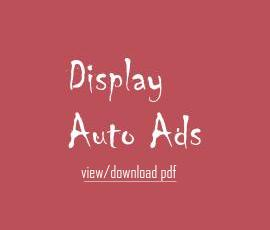
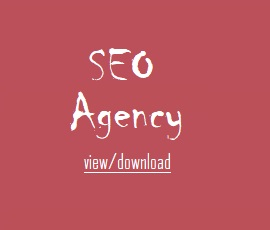
Case Studies update

Changed region(s): [[0.237, 0.1826, 0.7704, 0.7913]]

diff --git a/website/docs/cleaning-company.html b/website/docs/cleaning-company.html
@@ -1,0 +1,63 @@
+<!DOCTYPE html>
+<html>
+
+<head>
+  <meta charset="utf-8">
+  <meta name="viewport" content="width=device-width, initial-scale=1.0">
+  <title>Lead Generation Case Study: Cleaning Company</title>
+  <link rel="stylesheet" href="https://stackedit.io/style.css" />
+</head>
+
+<body class="stackedit">
+  <div class="stackedit__html"><h2 id="how-we-helped-a-commercial-cleaning-company-generate-up-to-30-leads-per-month-through-targeted-cold-email-campaigns"><strong>How We Helped a Commercial Cleaning Company Generate Up to 30 Leads Per Month Through Targeted Cold Email Campaigns</strong>**</h2>
+<p><img src="https://images.pexels.com/photos/7641008/pexels-photo-7641008.jpeg?auto=compress&amp;cs=tinysrgb&amp;w=1260&amp;h=750&amp;dpr=1" alt="Free Man in White Crew Neck T-shirt Standing Beside Window Stock Photo"></p>
+<h3 id="how-getfitech-media-helped-a-commercial-cleaning-company-in-south-africa-generate-30-leads-monthly">How GetFiTech Media Helped a Commercial Cleaning Company in South Africa Generate 30 Leads Monthly</h3>
+<p>Explore how GetFiTech Media’s specialized cold email campaigns empowered a commercial cleaning company in South Africa to secure up to 30 qualified leads each month, driving growth and bolstering their market presence in a competitive environment.</p>
+<p><strong>Client:</strong> Commercial Cleaning Company<br>
+<strong>Industry:</strong> Commercial Cleaning Services, B2B</p>
+<p><strong>Challenge:</strong> This burgeoning commercial cleaning firm in South Africa faced difficulties in a saturated market, struggling to maintain a consistent influx of qualified leads to sustain growth and profitability.</p>
+<p><strong>Solution:</strong> Developing a precision-targeted cold email strategy to foster lead generation and cultivate relationships with prospective clients in various commercial sectors.</p>
+<p><strong>Results:</strong> Achieved up to 30 qualified leads monthly, facilitating continuous growth and market penetration.</p>
+<hr>
+<h3 id="background">Background</h3>
+<p>Our client, an innovative commercial cleaning company, operates in multiple cities across South Africa, delivering comprehensive cleaning solutions to commercial establishments such as office complexes, retail stores, and educational facilities. Despite their high standards of service, they encountered challenges in generating a steady stream of new business leads in a highly competitive market.</p>
+<hr>
+<h3 id="solution">Solution</h3>
+<p><strong>Cold Email Strategy:</strong><br>
+We designed a bespoke cold email campaign to address the specific requirements and challenges of businesses seeking dependable cleaning services. The strategy involved:</p>
+<ol>
+<li>
+<p><strong>Segmentation and Targeting:</strong> We meticulously identified and segmented potential clients based on industry, company size, and location, tailoring our messages to meet the unique needs of each segment.</p>
+</li>
+<li>
+<p><strong>Personalized Email Content:</strong> Crafted emails that addressed concerns about cleanliness, hygiene, and maintenance costs, showcasing our client’s expertise and unique value proposition.</p>
+</li>
+<li>
+<p><strong>Effective Subject Lines and CTAs:</strong> We experimented with various subject lines to maximize open rates and included compelling calls-to-action to encourage recipients to book consultations or service demonstrations.</p>
+</li>
+<li>
+<p><strong>Follow-Up Sequence:</strong> Implemented a structured follow-up sequence to engage leads who expressed interest but didn’t respond immediately, ensuring our client remained top-of-mind.</p>
+</li>
+</ol>
+<hr>
+<h3 id="results">Results</h3>
+<p>Our cold email strategy yielded significant improvements in the client’s lead-generation efforts:</p>
+<ol>
+<li>
+<p><strong>Reliable Lead Generation:</strong> The campaign consistently produced up to 30 qualified leads per month, driving predictable growth.</p>
+</li>
+<li>
+<p><strong>Enhanced Brand Awareness:</strong> The focused outreach increased brand visibility in the commercial sector, positioning our client as a preferred choice for commercial cleaning services.</p>
+</li>
+<li>
+<p><strong>Strengthened Client Relationships:</strong> Personalized follow-ups and targeted content fostered strong relationships with potential clients, often leading to referrals and repeat business.</p>
+</li>
+</ol>
+<hr>
+<h3 id="conclusion">Conclusion</h3>
+<p>Through targeted cold email campaigns, GetFiTech Media assisted the commercial cleaning company in establishing a solid foothold in the South African market, leading to consistent lead generation and improved brand recognition. Our ongoing efforts continue to support their expansion, ensuring they stay competitive and responsive to market dynamics.</p>
+<p>As the company broadens its service offerings and geographic reach, we are committed to refining our strategies to meet their evolving marketing needs and to ensure their sustained success.</p>
+</div>
+</body>
+
+</html>

diff --git a/website/index.html b/website/index.html
@@ -114,7 +114,7 @@ height="0" width="0" style="display:none;visibility:hidden"></iframe></noscript>
                           <div class="col-md-5">
                             <div class="right-about-text">
                               <h4>What we do?</h4>
-                              <p>We fuel business growth by delivering marketing qualified leads directly to your team. Let's help you identify, nurture, and convert potential customers throughout their buying journey.</p> <p>Our turnkey lead generation solutions leverage data-driven strategies to connect your business with decision-makers in your target market. We don't just fill your pipeline; we provide warm leads primed for conversion, boosting your sales efficiency and revenue growth.</p> 
+                              <p>We fuel business growth by delivering qualified leads directly to your sales team. Let's help you identify, nurture, and convert potential customers throughout their buying journey.</p> <p>Our turnkey lead generation solutions leverage data-driven strategies to connect your business with decision-makers in your target market. We don't just fill your pipeline; we provide warm leads primed for conversion, boosting your sales efficiency and revenue growth.</p> 
                               
                             </div>
                           </div>
@@ -192,28 +192,28 @@ height="0" width="0" style="display:none;visibility:hidden"></iframe></noscript>
                       <div class="content fourth-content">
                         <div class="row">
                           <div class="col-md-3 project-item">
-                            <a href="docs/gmb.pdf" target="_blank"><img src="img/project-item-01.jpg"></a>
+                            <a href="" target="_blank"><img src="img/project-item-01.jpg"></a>
                           </div>
                           <div class="col-md-3 project-item">
-                            <a href="docs/advertising-intelligence-brochure.pdf" target="_blank"><img src="img/project-item-02.jpg"></a>
+                            <a href="docs/cleaning-company.html" target="_blank"><img src="img/project-item-02.jpg"></a>
                           </div>
                           <div class="col-md-3 project-item">
-                            <a href="docs/auto-dealer.pdf" target="_blank"><img src="img/project-item-03.jpg"></a>
+                            <a href="docs/seo-agency.html" target="_blank"><img src="img/project-item-03.jpg"></a>
                           </div>
                           <div class="col-md-3 project-item">
-                            <a href="docs/pre-roll-case -studies.pdf" target="_blank"><img src="img/project-item-04.jpg"></a>
+                            <a href="" target="_blank"><img src="img/project-item-04.jpg"></a>
                           </div>
                           <div class="col-md-3 project-item">
-                            <a href="docs/retargeting-case-studies.pdf" target="_blank"><img src="img/project-item-05.jpg"></a>
+                            <a href="" target="_blank"><img src="img/project-item-05.jpg"></a>
                           </div>
                           <div class="col-md-3 project-item">
-                            <a href="docs/ad-extensions.pdf" target="_blank"><img src="img/project-item-06.jpg"></a>
+                            <a href="" target="_blank"><img src="img/project-item-06.jpg"></a>
                           </div>
                           <div class="col-md-3 project-item">
-                            <a href="docs/targeted-display-case-study.pdf" target="_blank"><img src="img/project-item-07.jpg"></a>
+                            <a href="" target="_blank"><img src="img/project-item-07.jpg"></a>
                           </div>
                           <div class="col-md-3 project-item">
-                            <a href="docs/case-study-attorney.pdf" target="_blank"><img src="img/project-item-08.jpg"></a>
+                            <a href="" target="_blank"><img src="img/project-item-08.jpg"></a>
                             
                             <!--images are chiller 36-->
                           </div>

diff --git a/website/docs/seo-agency.html b/website/docs/seo-agency.html
@@ -1,0 +1,49 @@
+<!DOCTYPE html>
+<html>
+
+<head>
+  <meta charset="utf-8">
+  <meta name="viewport" content="width=device-width, initial-scale=1.0">
+  <title>B2B Lead Generation Case Study: SEO Agency</title>
+  <link rel="stylesheet" href="https://stackedit.io/style.css" />
+</head>
+
+<body class="stackedit">
+  <div class="stackedit__html"><h2 id="how-getfitech-media-helped-a-client-secure-70-high-quality-leads-in-the-seo-sector-via-cold-email"><strong>How GetFiTech Media Helped a Client Secure 70 High-Quality Leads in the SEO Sector via Cold Email</strong></h2>
+<p><strong>Generating 70 high-quality leads for an SEO firm in 2 months, exceeding expectations. Achieved a 38% open rate and 21% response rate, outperforming industry standards.</strong></p>
+<p><img src="https://cdn.pixabay.com/photo/2022/09/14/03/35/social-media-7453328_1280.png" alt="Free social media social media lead generation tiktok illustration"></p>
+<h3 id="client-overview">Client Overview:</h3>
+<p>Our client, a budding SEO agency, sought to widen their client base and boost their visibility in the digital marketing arena. With a committed team and a history of outstanding results for their existing clients, they were eager to explore new opportunities to demonstrate their expertise and expand their business.</p>
+<h3 id="the-challenge">The Challenge:</h3>
+<p>Despite their proven success, the client faced two major obstacles:</p>
+<ol>
+<li>Differentiating themselves in a crowded market filled with established competitors.</li>
+<li>Identifying and engaging with potential clients interested in their services.</li>
+</ol>
+<p>To tackle these issues, the agency approached us with a clear objective: to generate a minimum of 50 new leads within a two-month timeframe.</p>
+<h3 id="our-approach">Our Approach:</h3>
+<p>After a thorough analysis of the client’s goals, industry, and target audience, we concluded that cold email campaigns would be the most effective strategy. Our three-step plan included:</p>
+<ol>
+<li>
+<p><strong>Lead Generation and Segmentation:</strong> We conducted extensive research to find businesses needing SEO services, focusing on small to medium-sized enterprises with a robust online presence. Using advanced tools, we compiled a list of 500 prospects and segmented them by industry, size, and location.</p>
+</li>
+<li>
+<p><strong>Creating Tailored Email Content:</strong> Leveraging our copywriting expertise, we crafted a series of engaging and personalized email templates that highlighted the value of the client’s SEO services. The content was tailored to resonate with each segment of prospects and encourage positive responses.</p>
+</li>
+<li>
+<p><strong>A/B Testing and Optimization:</strong> To enhance our campaign’s effectiveness, we performed A/B testing on various email components, such as subject lines, opening statements, and CTAs. By carefully tracking the results, we optimized the email content to boost open and response rates.</p>
+</li>
+</ol>
+<h3 id="results">Results:</h3>
+<p>Our cold email campaign not only met but surpassed the client’s expectations, achieving the following outcomes:</p>
+<ul>
+<li>Generated 70 high-quality leads in the two-month period, exceeding the initial target of 50 leads.</li>
+<li>Achieved a remarkable open rate of 38% and a response rate of 21%, both significantly higher than industry norms.</li>
+<li>Secured 12 new client conversions within the first three months post-campaign, leading to a substantial revenue increase for the SEO agency.</li>
+</ul>
+<h3 id="conclusion">Conclusion:</h3>
+<p>Our strategic cold email marketing approach enabled our client to generate 70 high-quality leads in the competitive SEO niche, significantly boosting their client base and revenue. By leveraging our skills in lead generation, copywriting, and campaign optimization, we devised an impactful outreach strategy that delivered measurable results.</p>
+</div>
+</body>
+
+</html>
